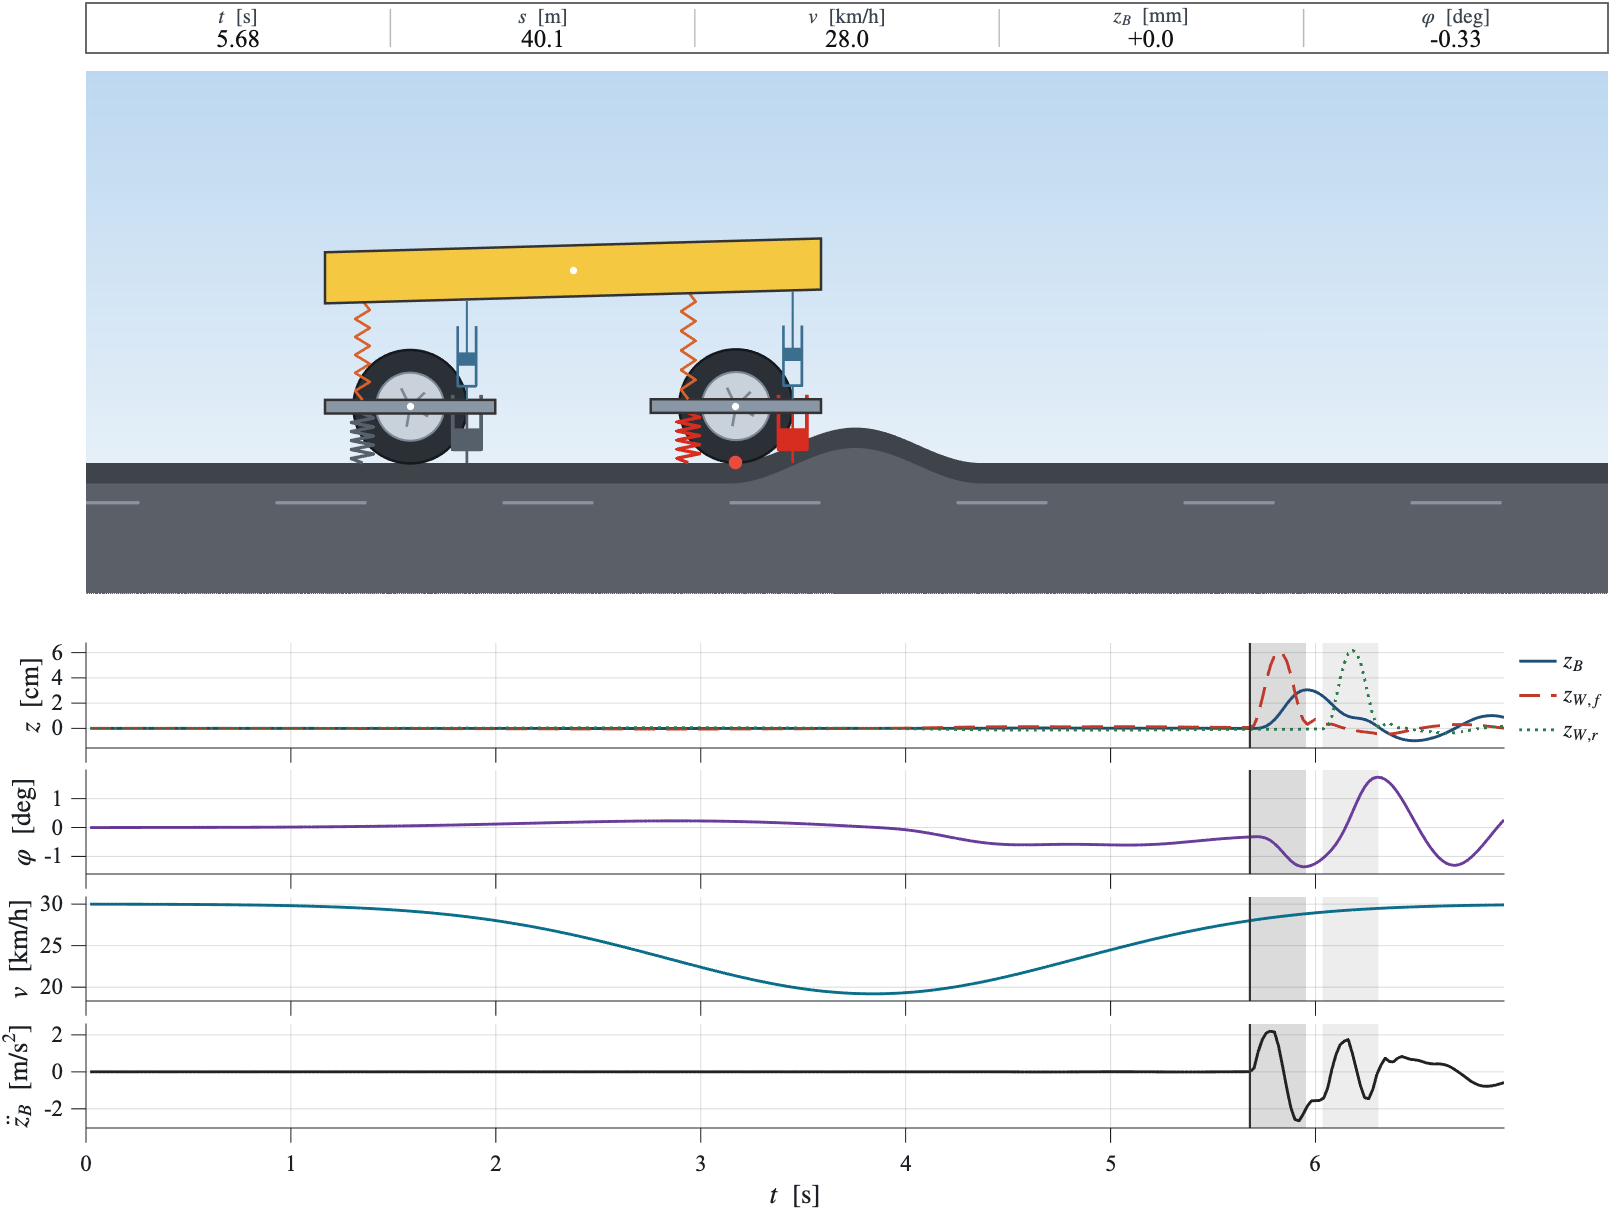
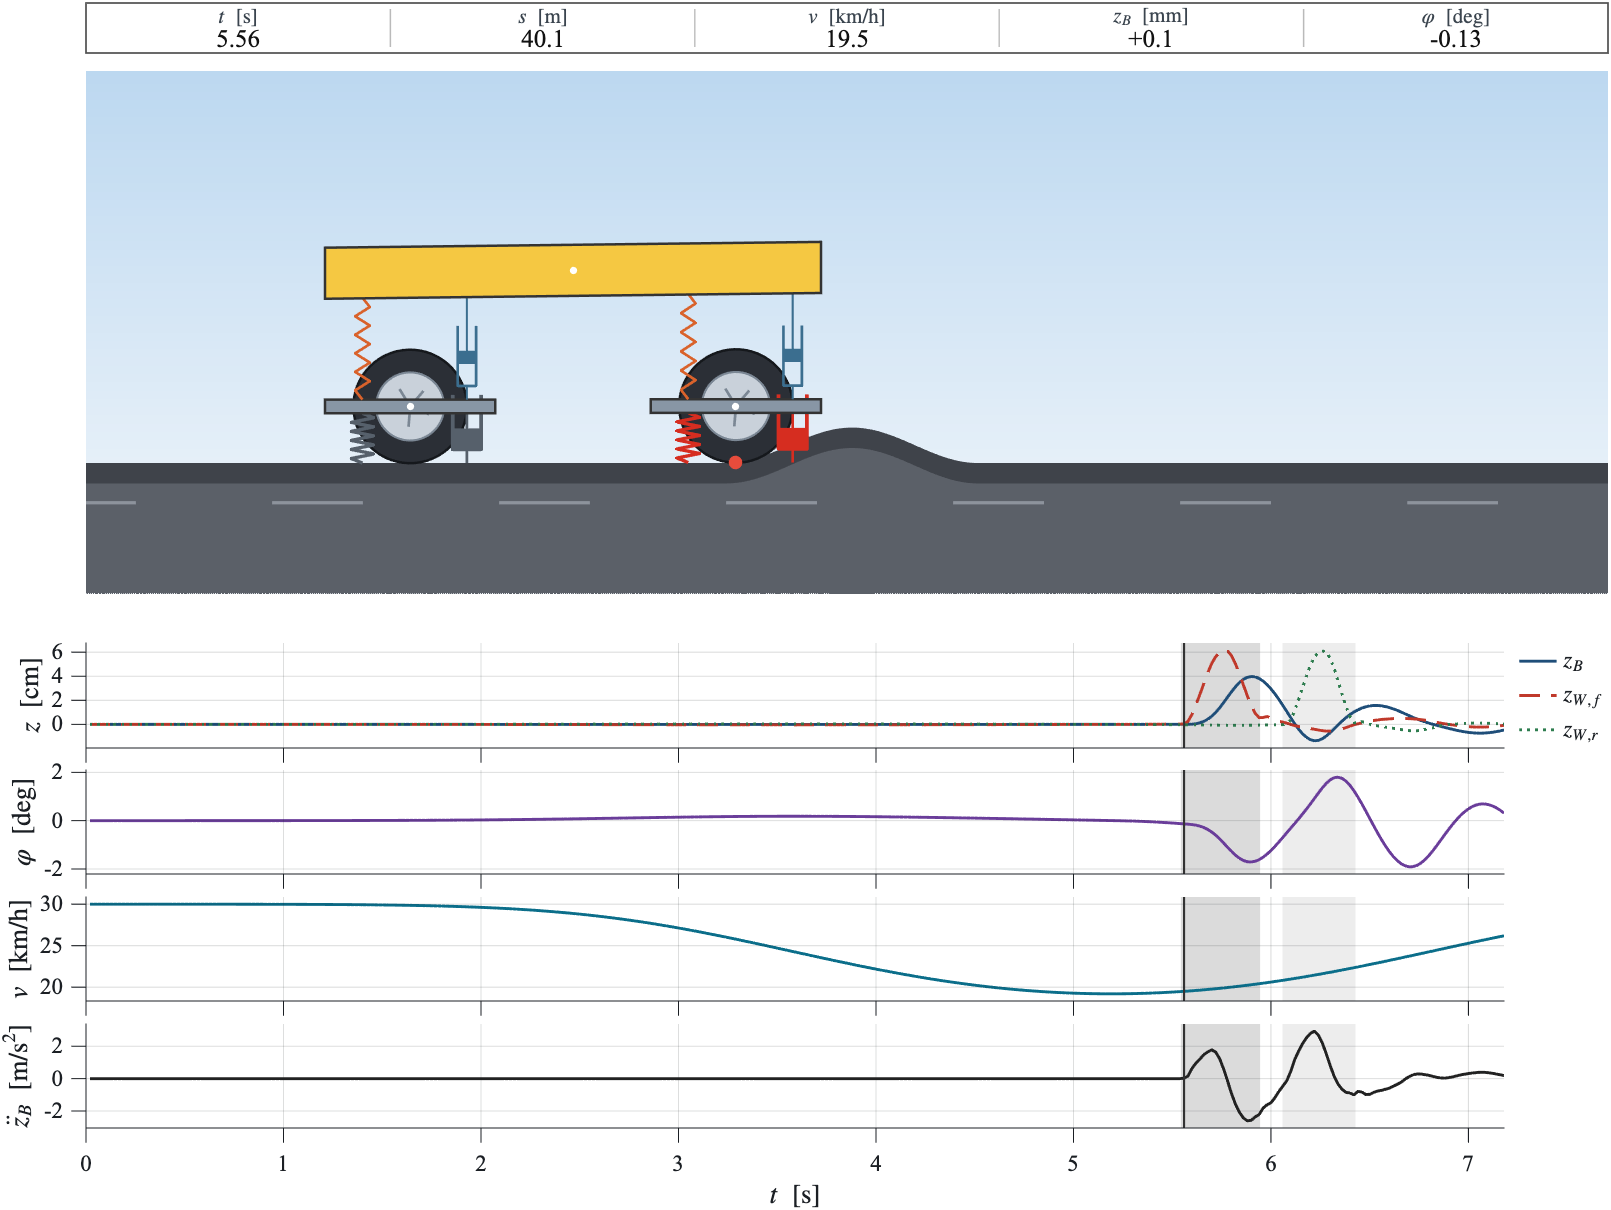
Place the speed dip by distance so the car is slowest at the bump

diff --git a/tests/core/test_profiles.m b/tests/core/test_profiles.m
@@ -11,6 +11,7 @@ before = ride.profiles.speeds(struct('type', 'dip_at_bump', 'speed_mps', 6, 'dep
 [~, slowest] = min(before);
 distance = cumsum(before) * dt;
 assert(distance(slowest) < sc.road.bumps(1, 1), 'the dip must be deepest before the bump');
+assert(abs(distance(slowest) - (sc.road.bumps(1, 1) - 8)) < 0.5, 'the dip must be deepest lead_m before the bump, measured along the road');
 flat_road = ride.scenarios.make('flat', ride.core.terrain.from_function(@(s) 0 * s, 30, 0.05));
 none = ride.profiles.speeds(struct('type', 'dip_at_bump', 'speed_mps', 6, 'depth_mps', 3, 'lead_m', 8, 'width_s', 1), dt, 50, flat_road);
 assert(numel(none) == 50 && all(isfinite(none)), 'a dip profile must still work on a road without labelled bumps');

diff --git a/examples/paper/fig3_profiles.m b/examples/paper/fig3_profiles.m
@@ -35,7 +35,7 @@ for panel = 1:2
     end
 end
 cfg = ride.config();
-save_figure(fig, 'fig3_profiles', sprintf('half-car | %s | profiles from config/default.json: constant, dip (%.1f m/s deep, %.0f m before the bump), reactive', ...
+save_figure(fig, 'fig3_profiles', sprintf('half-car | %s | profiles from config/default.json: constant, dip (%.1f m/s deep, slowest %.0f m before the bump), reactive', ...
     strjoin(scenarios, ', '), cfg.profiles.dip.depth_mps, cfg.profiles.dip.lead_m));
 for j = 1:numel(scenarios)
     fprintf('%-30s', scenarios{j});

diff --git a/src/+ride/+profiles/+builtin/dip_at_bump.m b/src/+ride/+profiles/+builtin/dip_at_bump.m
@@ -7,7 +7,12 @@ x0 = 0;
 if ~isempty(sc.road.bumps)
     x0 = min(sc.road.bumps(:, 1));
 end
-center = max(x0 - profile.lead_m, 0) / speed;
-t = (1:n)' * dt;
-v = speed - profile.depth_mps * exp(-((t - center) .^ 2) / (2 * profile.width_s ^ 2));
+center = max(x0 - profile.lead_m, 0);
+width = profile.width_s * speed;
+v = zeros(n, 1);
+s = 0;
+for k = 1:n
+    v(k) = speed - profile.depth_mps * exp(-((s - center) ^ 2) / (2 * width ^ 2));
+    s = s + v(k) * dt;
+end
 end
